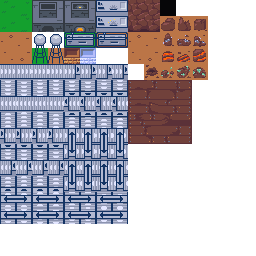
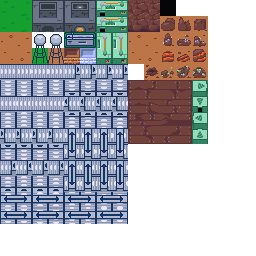
drill and assembler sprites

Changed region(s): [[0.375, 0.0, 0.5, 0.25], [0.75, 0.3125, 0.8125, 0.5625], [0.25, 0.2188, 0.3125, 0.25]]

diff --git a/content/data/machine/assembler.cpp b/content/data/machine/assembler.cpp
@@ -2,18 +2,38 @@
 
 Crafter::Crafter() : Machine() {
 	width = 2;
-	height = 2;
+	height = 1;
 	outputItem = NULL;
 	flags |= T_SOLID | T_USESITEMS;
 	maxIngredients = 2;
 	recipeFilter = CRAFT;
 };
 
+void Crafter::init(int _worldX, int _worldY, Direction direction) {
+	Machine::init(_worldX, _worldY, direction);
+	width = 1;
+	if (direction % 2 == 0) {
+		width = 2;
+	}
+	else {
+		height = 2;
+	}
+
+}
 
 void Crafter::draw(SDL_Renderer* renderer, float _x, float _y) {
 
-	SDL_FRect tileRect = { _x, _y, TILE_SIZE * 2, TILE_SIZE * 2 };
-	SDL_FRect texRect = { SPRITE_SIZE * 2, 0, SPRITE_SIZE * 2, SPRITE_SIZE * 2 };
+	SDL_FRect tileRect = { _x, _y, TILE_SIZE, TILE_SIZE };
+	SDL_FRect texRect;
+
+	if (direction % 2 == 0) {
+		texRect = { 6 * SPRITE_SIZE, (float)frame * SPRITE_SIZE, SPRITE_SIZE * 2, SPRITE_SIZE };
+		tileRect.w = TILE_SIZE * 2;
+	}
+	else {
+		texRect = { 6 * SPRITE_SIZE, (float)(frame + 2) * SPRITE_SIZE, SPRITE_SIZE, SPRITE_SIZE * 2 };
+		tileRect.h = TILE_SIZE * 2;
+	}
 	SDL_RenderTexture(renderer, textureList[TEX_TILES1], &texRect, &tileRect);
 
 }
@@ -45,6 +65,7 @@ void Crafter::tick(World* world, int gameTick) {
 	}
 
 	if (craftValid) {
+		frame =  1 - frame;
 		craftingTicks++;
 		if (craftingTicks >= recipeRegistry[recipeFilter][selectedRecipe]->getTime()) {
 			for (int i = 0; i < maxIngredients; i++) {
@@ -262,8 +283,17 @@ bool Crafter::acceptItem(ItemStack* item, int x, int y, Direction direction, boo
 void Crafter::DrawPreview(SDL_Renderer* renderer, float _x, float _y, Direction _direction) {
 	SDL_SetRenderDrawColor(renderer, 255, 255, 255, 128);
 
-	SDL_FRect tileRect = { _x, _y, TILE_SIZE*2, TILE_SIZE*2};
-	SDL_FRect texRect = { SPRITE_SIZE * 2, 0, SPRITE_SIZE*2, SPRITE_SIZE*2 };
+	SDL_FRect tileRect = { _x, _y, TILE_SIZE, TILE_SIZE };
+	SDL_FRect texRect;
+
+	if (_direction % 2 == 0) {
+		texRect = { 6 * SPRITE_SIZE, 0, SPRITE_SIZE * 2, SPRITE_SIZE};
+		tileRect.w = TILE_SIZE * 2;
+	}
+	else {
+		texRect = { 6 * SPRITE_SIZE, 2 * SPRITE_SIZE, SPRITE_SIZE, SPRITE_SIZE * 2 };
+		tileRect.h = TILE_SIZE * 2;
+	}
 
 	SDL_SetTextureAlphaMod(textureList[TEX_TILES1], 128);
 	SDL_RenderTexture(renderer, textureList[TEX_TILES1], &texRect, &tileRect);

diff --git a/content/data/machine/drill.cpp b/content/data/machine/drill.cpp
@@ -40,7 +40,8 @@ Machine* drill::copy(int _worldX, int _worldY, Direction _direction) {
 void drill::draw(SDL_Renderer* renderer, float _x, float _y) {
 
 	SDL_FRect tileRect = { _x, _y, TILE_SIZE, TILE_SIZE };
-	SDL_FRect texRect = {frame * SPRITE_SIZE, SPRITE_SIZE * 4 + SPRITE_SIZE * direction, SPRITE_SIZE, SPRITE_SIZE };
+	SDL_FRect texRect = { SPRITE_SIZE * 12, SPRITE_SIZE * 5 + SPRITE_SIZE * direction, SPRITE_SIZE, SPRITE_SIZE };
+
 	SDL_RenderTexture(renderer, textureList[TEX_TILES1], &texRect, &tileRect);
 
 }
@@ -73,7 +74,7 @@ void drill::DrawPreview(SDL_Renderer* renderer, float _x, float _y, Direction _d
 	SDL_SetRenderDrawColor(renderer, 255, 255, 255, 128);
 
 	SDL_FRect tileRect = { _x, _y, TILE_SIZE, TILE_SIZE };
-	SDL_FRect texRect = { 0, SPRITE_SIZE * 4 + SPRITE_SIZE * _direction, SPRITE_SIZE, SPRITE_SIZE };
+	SDL_FRect texRect = { SPRITE_SIZE * 12, SPRITE_SIZE * 5 + SPRITE_SIZE * _direction, SPRITE_SIZE, SPRITE_SIZE };
 
 	SDL_SetTextureAlphaMod(textureList[TEX_TILES1], 128);
 	SDL_RenderTexture(renderer, textureList[TEX_TILES1], &texRect, &tileRect);

diff --git a/content/data/machine/assembler.h b/content/data/machine/assembler.h
@@ -14,6 +14,7 @@ class Crafter : public Machine {
 	ItemStack* inputItems[8];
 	ItemStack* outputItem;
 	int selectedRecipe = -1;
+	int frame = 0;
 	assemblerState state = STATE_A_RECIPECHOOSE;
 public:
 	int maxIngredients;
@@ -21,6 +22,7 @@ public:
 
 	Crafter();
 	Machine* copy(int worldX, int worldY, Direction direction);
+	void init(int worldX, int worldY, Direction direction);
 	void draw(SDL_Renderer* renderer, float x, float y) override;
 	void DrawPreview(SDL_Renderer* renderer, float x, float y, Direction direction);
 	bool acceptItem(ItemStack* item, int x, int y, Direction direction, bool forced) override;
